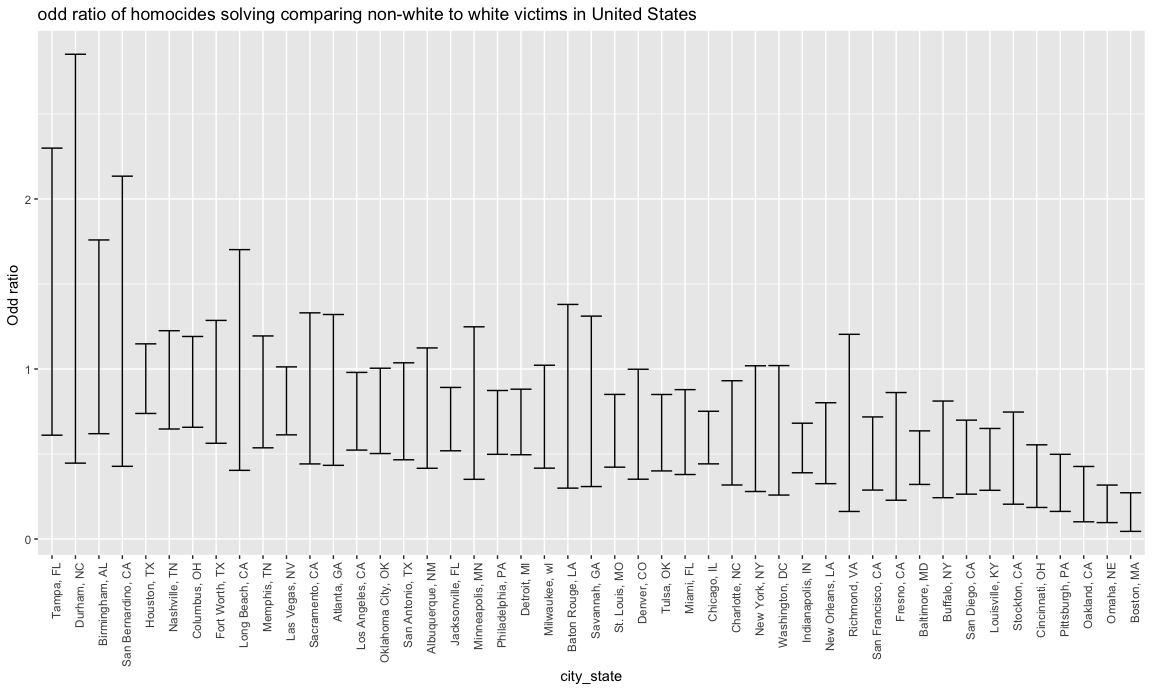
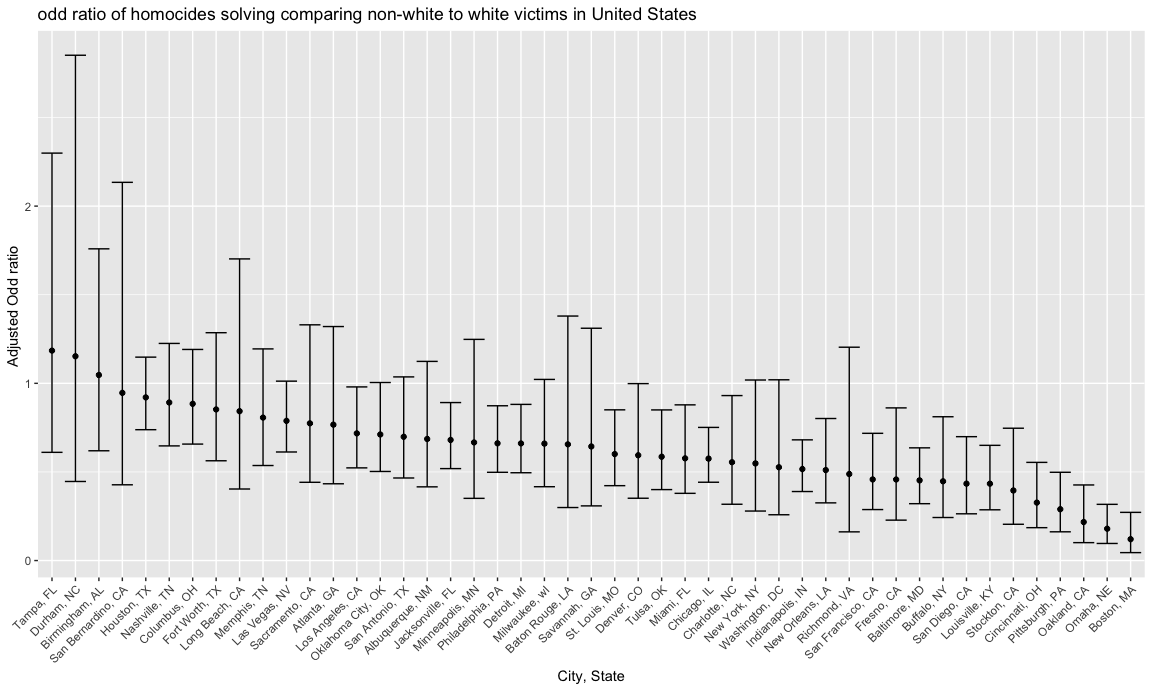
solve problem 1

diff --git a/homework6.md b/homework6.md
@@ -16,7 +16,13 @@ problem1
 
 **Washington Post**
 
-#### Create a city\_state variable (e.g. “Baltimore, MD”), and a binary variable indicating whether the homicide is solved. Omit cities Dallas, TX; Phoenix, AZ; and Kansas City, MO – these don’t report victim race. Also omit Tulsa, AL – this is a data entry mistake. Modifiy victim\_race to have categories white and non-white, with white as the reference category. Be sure that victim\_age is numeric.
+##### (1) Tidy Data
+
+*disposition: new binary variable*
+
+*delete records:Dallas, TX; Phoenix, AZ; and Kansas City, MO*
+
+*exhibit head 5 lines of dataset*
 
 ``` r
 Original_data = read.csv("https://raw.githubusercontent.com/washingtonpost/data-homicides/master/homicide-data.csv") 
@@ -59,9 +65,13 @@ wp_df %>% head(5)
     ## 4 Albuquerque, NM        1
     ## 5 Albuquerque, NM        0
 
-#### For the city of Baltimore, MD, use the glm function to fit a logistic regression with resolved vs unresolved as the outcome and victim age, sex and race (as just defined) as predictors.
+##### (2)"Baltimore, MD": use the glm function to fit a logistic regression with resolved vs unresolved as the outcome and victim age, sex and race (as just defined) as predictors.
 
-**Save the output of glm as an R object; ** apply the broom::tidy to this object; and **obtain the estimate and confidence interval of the adjusted odds ratio for solving homicides comparing non-white victims to white victims keeping all other variables fixed.**
+*1)Save the output of glm as an R object *
+
+*2)apply the broom::tidy to this object*
+
+*3)obtain the estimate and confidence interval of the adjusted odds ratio for solving homicides comparing non-white victims to white victims keeping all other variables fixed.*
 
 ``` r
 #For the city of Baltimore, MD
@@ -71,35 +81,27 @@ baltimore = wp_df %>%
 fit_baltimore = glm(resolved ~ victim_age + victim_sex + victim_race , family = binomial(), data = baltimore)
 
 broom::tidy(fit_baltimore)
-```
-
-    ## # A tibble: 4 x 5
-    ##   term                 estimate std.error statistic  p.value
-    ##   <chr>                   <dbl>     <dbl>     <dbl>    <dbl>
-    ## 1 (Intercept)           1.05      0.227        4.62 3.78e- 6
-    ## 2 victim_age           -0.00374   0.00303     -1.23 2.17e- 1
-    ## 3 victim_sexMale       -0.885     0.136       -6.50 8.08e-11
-    ## 4 victim_racenon_white -0.793     0.174       -4.55 5.33e- 6
-
-``` r
+## # A tibble: 4 x 5
+##   term                 estimate std.error statistic  p.value
+##   <chr>                   <dbl>     <dbl>     <dbl>    <dbl>
+## 1 (Intercept)           1.05      0.227        4.62 3.78e- 6
+## 2 victim_age           -0.00374   0.00303     -1.23 2.17e- 1
+## 3 victim_sexMale       -0.885     0.136       -6.50 8.08e-11
+## 4 victim_racenon_white -0.793     0.174       -4.55 5.33e- 6
 #the estimate of the adjusted odds ratio for solving homicides comparing non-white victims to white victims
 coef(fit_baltimore)["victim_racenon_white"] %>% exp()
-```
-
-    ## victim_racenon_white 
-    ##            0.4525206
-
-``` r
+## victim_racenon_white 
+##            0.4525206
 #the confidence interval of the adjusted odds ratio for solving homicides comparing non-white victims to white victims
 confint(fit_baltimore,"victim_racenon_white")%>% exp()
+## Waiting for profiling to be done...
+##     2.5 %    97.5 % 
+## 0.3208675 0.6359593
 ```
 
-    ## Waiting for profiling to be done...
+The estimate of the adjusted odds ratio for solving homicides comparing non-white victims to white victims is 0.453, and the 95% CI is (0.321,0.636).
 
-    ##     2.5 %    97.5 % 
-    ## 0.3208675 0.6359593
-
-#### Now run glm for each of the cities in your dataset, and extract the adjusted odds ratio (and CI) for solving homicides comparing non-white victims to white victims.
+##### (3)Now run glm for each of the cities in your dataset, and extract the adjusted odds ratio (and CI) for solving homicides comparing non-white victims to white victims.
 
 Do this within a “tidy” pipeline, making use of purrr::map, list columns, and unnest as necessary to create a dataframe with estimated ORs and CIs for each city.
 
@@ -121,25 +123,18 @@ Do this within a “tidy” pipeline, making use of purrr::map, list columns, an
          CI.high = exp(conf.high)) %>% 
   select(city_state,OR,CI.low ,CI.high ) 
 
-city_glm
+ knitr::kable(head(city_glm,5))
 ```
 
-    ## # A tibble: 47 x 4
-    ##    city_state         OR CI.low CI.high
-    ##    <chr>           <dbl>  <dbl>   <dbl>
-    ##  1 Albuquerque, NM 0.686 0.416    1.12 
-    ##  2 Atlanta, GA     0.767 0.433    1.32 
-    ##  3 Baltimore, MD   0.453 0.321    0.636
-    ##  4 Baton Rouge, LA 0.656 0.299    1.38 
-    ##  5 Birmingham, AL  1.05  0.619    1.76 
-    ##  6 Boston, MA      0.121 0.0447   0.272
-    ##  7 Buffalo, NY     0.447 0.243    0.811
-    ##  8 Charlotte, NC   0.555 0.318    0.931
-    ##  9 Chicago, IL     0.575 0.442    0.751
-    ## 10 Cincinnati, OH  0.327 0.186    0.554
-    ## # ... with 37 more rows
+| city\_state     |         OR|     CI.low|    CI.high|
+|:----------------|----------:|----------:|----------:|
+| Albuquerque, NM |  0.6860531|  0.4158651|  1.1237789|
+| Atlanta, GA     |  0.7667500|  0.4332108|  1.3204368|
+| Baltimore, MD   |  0.4525206|  0.3208675|  0.6359593|
+| Baton Rouge, LA |  0.6558545|  0.2991473|  1.3796610|
+| Birmingham, AL  |  1.0471153|  0.6194345|  1.7589481|
 
-#### Create a plot that shows the estimated ORs and CIs for each city. Organize cities according to estimated OR, and comment on the plot.
+##### (5)Create a plot that shows the estimated ORs and CIs for each city. Organize cities according to estimated OR, and comment on the plot.
 
 ``` r
 city_glm %>% 
@@ -147,13 +142,15 @@ city_glm %>%
     city_state = reorder(city_state,desc(OR))
   ) %>% 
 ggplot(aes(x = city_state, y = OR))+ geom_line()+
+  geom_point()+
   geom_errorbar(aes(x= city_state,ymin = CI.low, ymax = CI.high))+
   labs(
-    y = "Odd ratio ",
+    x = "City, State",
+    y = "Adjusted Odd ratio ",
     title = "odd ratio of homocides solving comparing non-white to white victims in United States"
   )+
   theme(
-    axis.text.x = element_text(angle = 90 , hjust = 1)
+    axis.text.x = element_text(angle = 45 , hjust = 1)
   )
 ```
 
@@ -164,6 +161,8 @@ ggplot(aes(x = city_state, y = OR))+ geom_line()+
 
 Comment:
 --------
+
+Most cities who have a higher OR are tending to have a wider OR confidence interval.`Tampa,Fl`,`Durham,NC`,`Birmingham,AL` these three cities have a OR higher than 1, which indicates in these cities, homicides with non-white victims are more likely to be solved. However, since they all have a wide 95% confidence interval, which include point 1, there still exists some probability that homicides with non-white victims are equal or less likely to be solved.
 
 problem2
 --------
